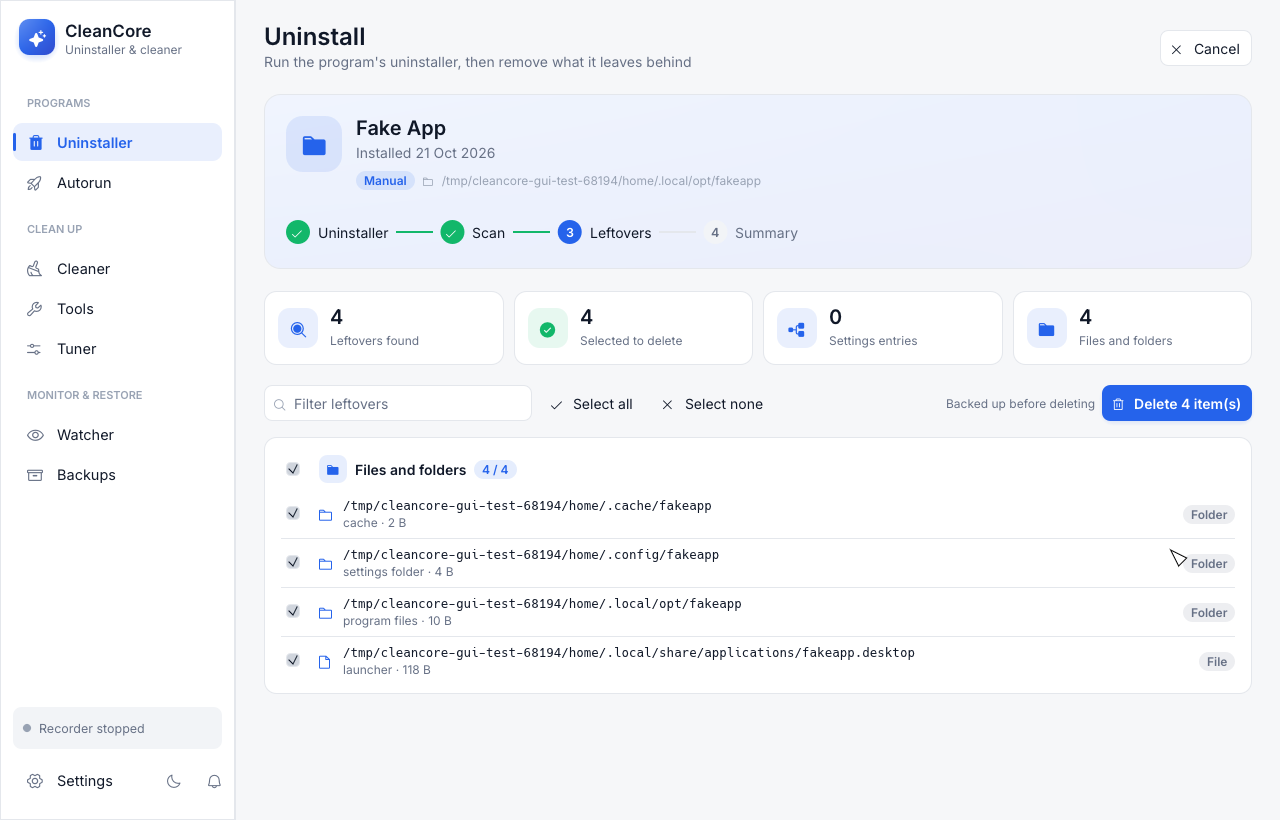
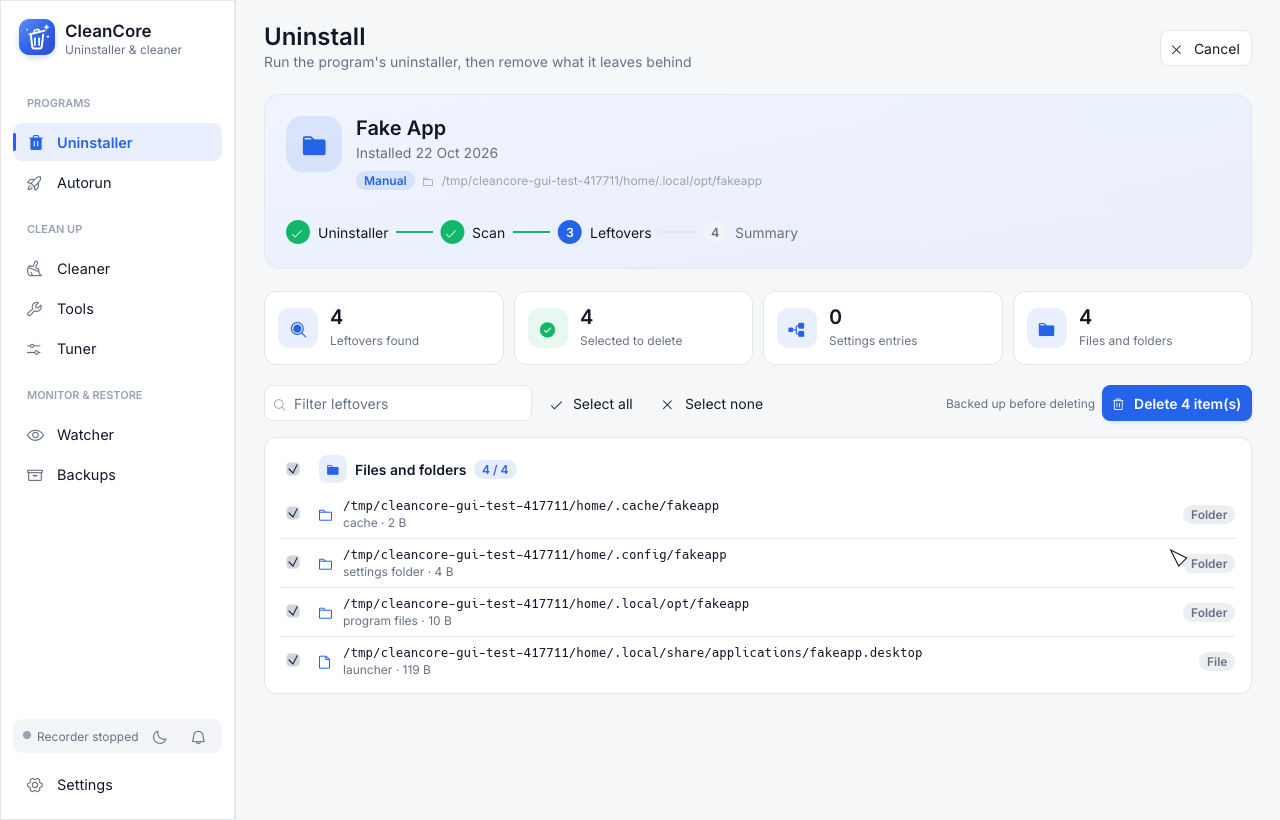
README: every feature, current screenshots
- Features grouped as in the sidebar (Programs, Clean up, Monitor and restore), adding what
  shipped since the first release: forced uninstall, logs database, browser extensions,
  Hunter Mode, Auto Clean, history cleaner, Microsoft slop cleaner, system tools, the daily
  backup and the duplicate finder; `dupes` in the command-line examples.
- Screenshots retaken from the GUI test (new logo and layout), plus one of the duplicate
  finder. The test's duplicates step now makes three realistic sets of copies and waits for
  the earlier toast to fade, so its screenshot can go in the README as is.

diff --git a/tests/gui.rs b/tests/gui.rs
@@ -385,21 +385,40 @@ fn walk_through_every_tool() {
     wait_for(&mut h, "Deleted 1 junk file");
     assert!(!home.join("Documents/report.docx.tmp").exists());
 
-    let photo: Vec<u8> = (0..200_000u32).map(|i| (i % 253) as u8).collect();
-    std::fs::create_dir_all(home.join("Pictures/copy")).unwrap();
-    std::fs::write(home.join("Pictures/holiday.jpg"), &photo).unwrap();
-    std::fs::write(home.join("Pictures/copy/holiday (1).jpg"), &photo).unwrap();
+    // A few sets of copies, as people keep them: a photo backed up from a phone, a downloaded
+    // document saved twice more, a video in two places.
+    let sets: [(&[&str], u32); 3] = [
+        (&["Pictures/holiday.jpg", "Pictures/Phone backup/IMG_2041.jpg"], 2_400_000),
+        (&["Documents/Tax return 2025.pdf", "Downloads/Tax return 2025 (1).pdf", "Desktop/Tax return 2025.pdf"], 850_000),
+        (&["Videos/birthday.mp4", "Downloads/birthday.mp4"], 9_000_000),
+    ];
+    for (n, (files, size)) in sets.iter().enumerate() {
+        let data: Vec<u8> = (0..*size).map(|i| (i % (241 + n as u32)) as u8).collect();
+        for f in *files {
+            write(&home.join(f), "");
+            std::fs::write(home.join(f), &data).unwrap();
+        }
+    }
     h.get_by_label(&format!("{}  Duplicates", cleancore::gui::style::icon::COPY)).click();
     h.run_steps(3);
     shot(&mut h, "16b-tools-dupes-setup");
     h.get_by_label_contains("Find duplicates").click();
     wait_for(&mut h, "can be freed");
+    // Let the junk files toast fade and move the pointer off the buttons, for a clean picture.
+    h.hover_at(egui::pos2(760.0, 700.0));
+    let fade = Instant::now();
+    while fade.elapsed() < Duration::from_millis(4500) {
+        h.step();
+        std::thread::sleep(Duration::from_millis(50));
+    }
     shot(&mut h, "16c-tools-dupes-results");
     h.get_by_label_contains("Delete (").click();
     h.run_steps(3);
     h.get_by_role_and_label(Role::Button, &format!("{}  Delete", cleancore::gui::style::icon::TRASH)).click();
-    wait_for(&mut h, "Deleted 1 duplicate file");
-    assert_eq!(home.join("Pictures/holiday.jpg").exists() as u8 + home.join("Pictures/copy/holiday (1).jpg").exists() as u8, 1);
+    wait_for(&mut h, "Deleted 4 duplicate file");
+    for (files, _) in sets {
+        assert_eq!(files.iter().filter(|f| home.join(f).exists()).count(), 1, "{files:?}");
+    }
 
     h.get_by_label(&format!("{}  History", cleancore::gui::style::icon::HISTORY)).click();
     wait_for(&mut h, "Thumbnail cache");

diff --git a/README.md b/README.md
@@ -14,21 +14,40 @@
 
 ## Features
 
-- **Uninstaller**: removes programs, then finds and deletes everything they left behind
+### Programs
+
+- **Uninstaller**: runs a program's own uninstaller, then finds and deletes everything it left behind
 - **Quick and batch uninstall**: silent uninstallers plus automatic leftover cleanup for many programs at once
-- **Install and trace**: records an installation so it can be undone exactly later
-- **Cleaner**: finds broken launchers, dead startup items, orphaned settings and registry entries
-- **Junk files, history and evidence remover**: temp files, browser history, free space wiping
-- **Duplicate finder**: identical files found fast (size, then sampled hash, then full BLAKE3 hash, all in parallel); the extra copies go to the Trash, one copy is always kept
-- **Unrecoverable delete**: overwrites files before removing them
-- **Autorun manager**: everything that starts with the system, in one list
-- **Tuner**: reversible system tweaks
-- **Watcher**: live view of every change to config files, settings or the registry
-- **Backups**: everything is backed up before it is deleted, and can be restored in one click
+- **Forced uninstall**: removes what's left of programs whose uninstaller is gone or broken
+- **Install and trace**: records an installation so it can be undone exactly later; trace logs can be shared through a logs database
+- **Browser extensions**: lists and removes extensions of Chrome, Edge, Brave, Opera, Vivaldi and Firefox, for every profile
+- **Autorun manager**: programs, services and tasks that start with the system, in one list
+- **Hunter Mode** (Windows): point at any window to uninstall its program, stop it from starting, or kill it
 
 <p align="center">
   <img src="docs/uninstall.png" width="820" alt="Leftovers after an uninstall">
 </p>
+
+### Clean up
+
+- **Cleaner**: finds broken launchers, dead startup items, orphaned settings and registry entries
+- **Auto Clean**: scans and cleans on a schedule (systemd user timers / Task Scheduler)
+- **Junk files**: temp files, editor backups and crash dumps on your drives
+- **Duplicate finder**: identical files, found fast: grouped by size, then compared by a few KB from each end, and only files still alike are hashed whole (BLAKE3), all in parallel. A whole home folder takes seconds. Every copy but one is ticked (keep the oldest, the newest or the shortest path), and one copy of each file is always kept.
+- **History cleaner**: browser history and caches, recent files and other traces
+- **Unrecoverable delete and evidence remover**: overwrite files, or the free space, so nothing can be recovered
+- **Microsoft slop cleaner** (Windows): removes preinstalled and pushed apps, turns off Copilot, ads and telemetry, and removes Edge and OneDrive and keeps them away
+- **Tuner**: reversible system tweaks
+- **System tools**: the operating system's own utilities in one place, plus your own
+
+<p align="center">
+  <img src="docs/duplicates.png" width="820" alt="Duplicate finder results">
+</p>
+
+### Monitor and restore
+
+- **Watcher**: live view of every change to config files, settings or the registry
+- **Backups**: everything is backed up before it is deleted, and can be restored in one click; optionally a full backup every day
 
 ## Install
 
@@ -90,7 +109,8 @@ cleancore clean                    # back up, then remove what the scan finds
 cleancore programs                 # list installed programs
 cleancore uninstall "Program Name" # uninstall and remove leftovers
 cleancore junk scan                # find junk files
-cleancore dupes scan               # find duplicate files (dupes clean --keep oldest|newest|shortest)
+cleancore dupes scan               # find duplicate files
+cleancore dupes clean --keep newest # delete the extra copies, keeping one of each
 cleancore --help                   # everything else
 ```
 
